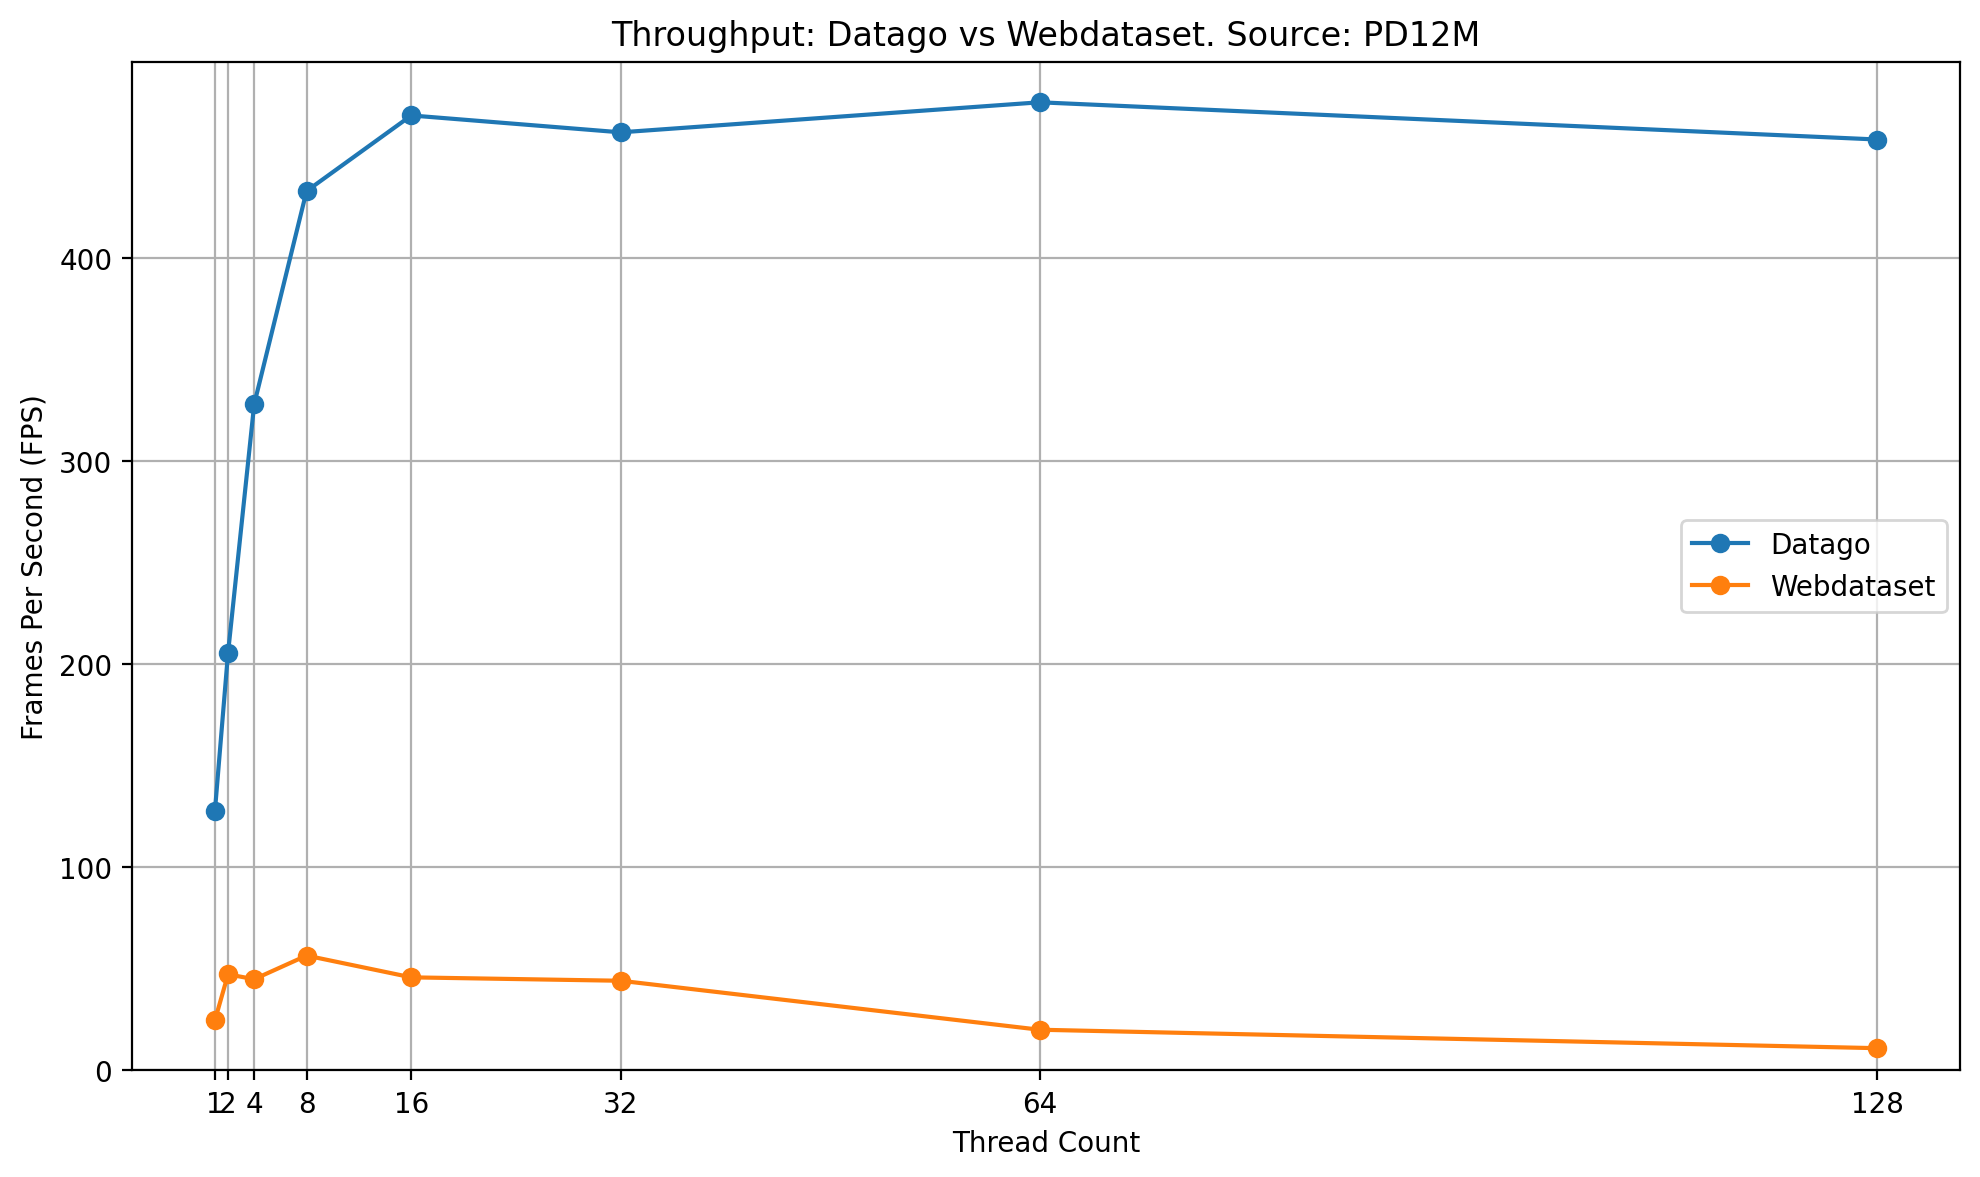
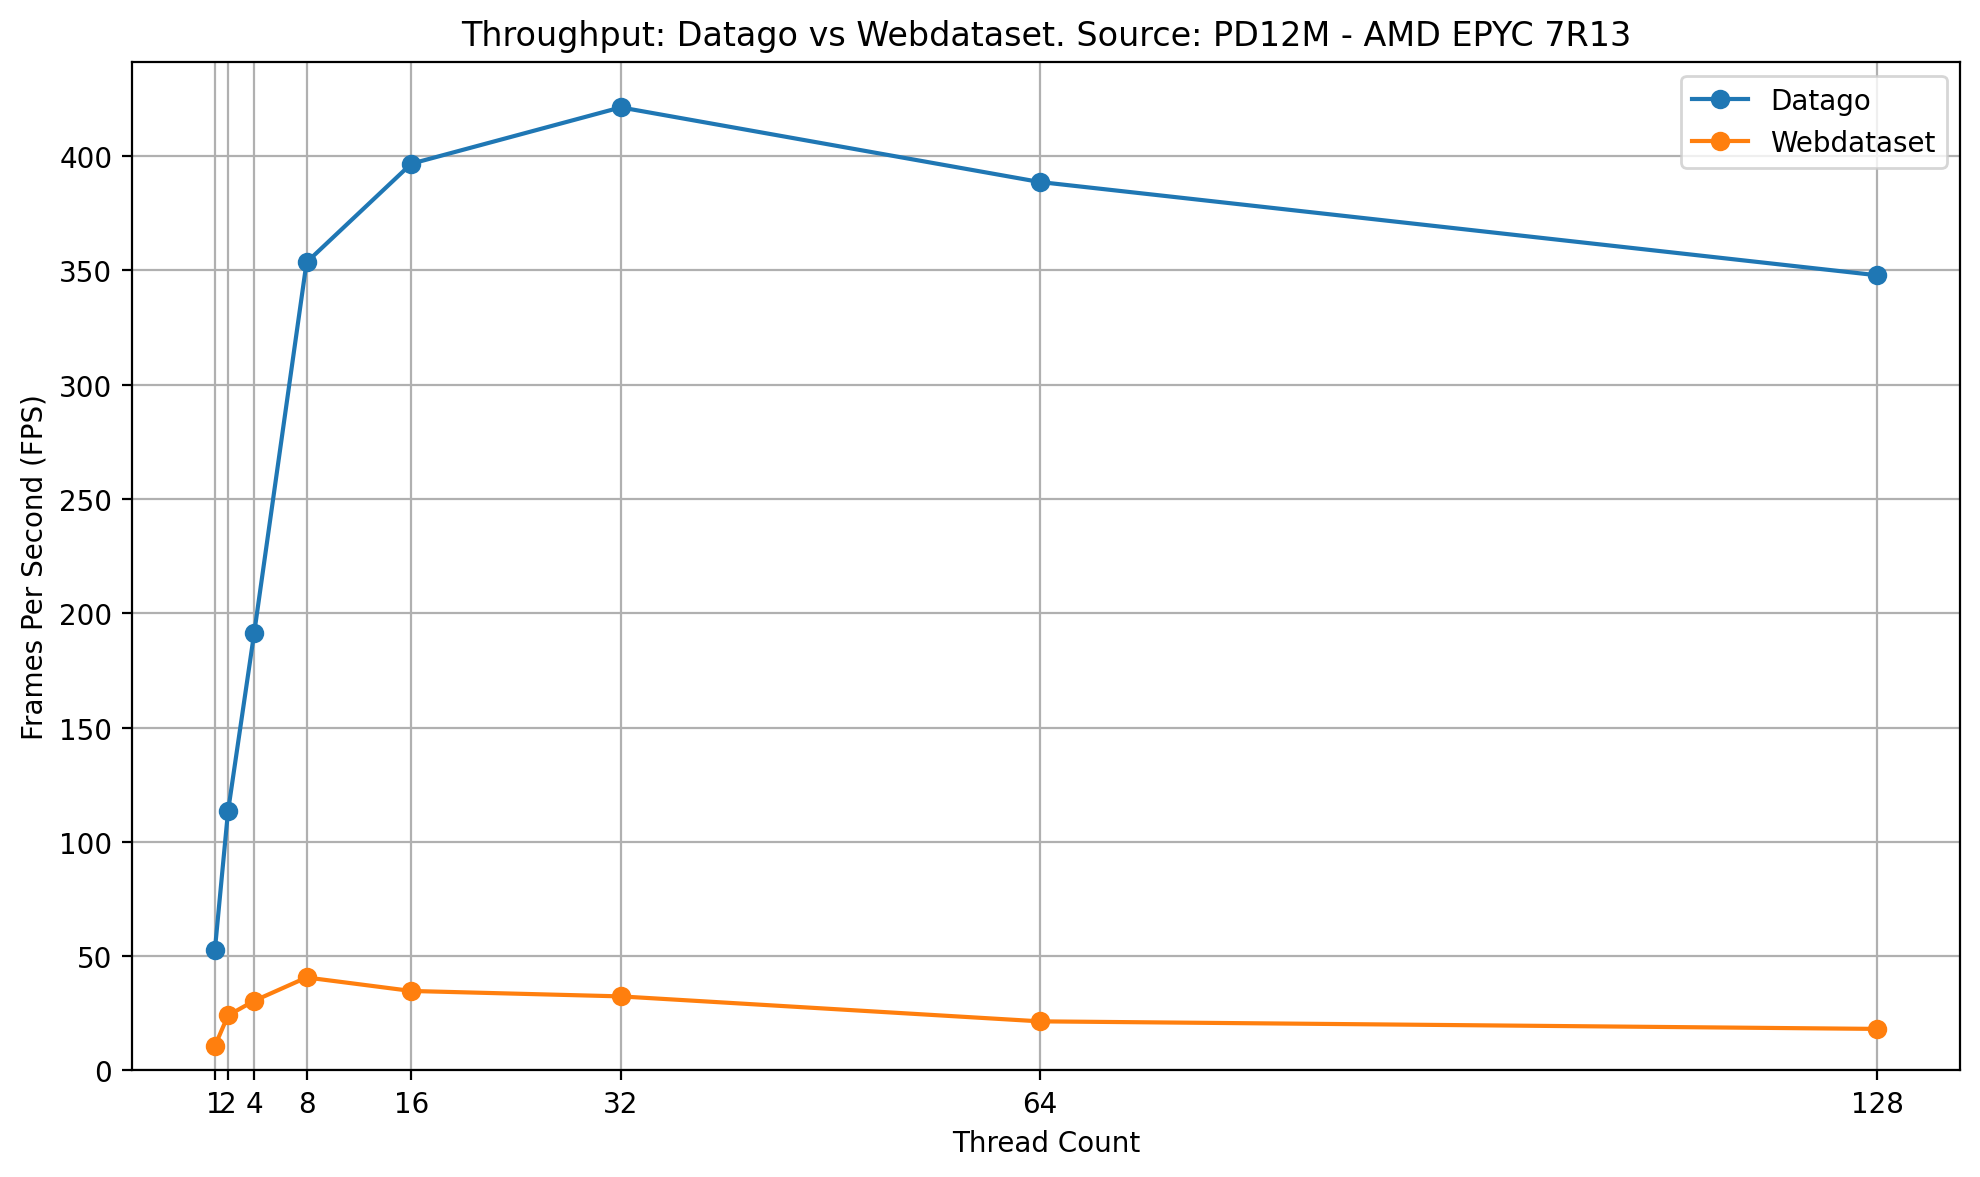
[nit] Refresh EPYC webdataset benchmark on an EPYC 7R13, forkserver-safe benchmark (#181)
* [nit] Refresh EPYC webdataset benchmark on an EPYC 7R13

Re-run the PD12M webdataset sweep (1-128 workers, 1000 images) on a 2x48-core
EPYC 7R13 and point the README EPYC references to it. Also fix the FakeIN plot
alt text, which named the EPYC but shows the Zen3 laptop run.

* [fix] Make the webdataset benchmark work with forkserver workers

Python 3.14 starts DataLoader workers with forkserver, which pickles the
collate_fn and dataset pipeline. Replace the lambda collate_fn and nested
resize closure with module-level functions so the Webdataset side runs
without forcing the fork start method.

---------

diff --git a/python/benchmark_webdataset.py b/python/benchmark_webdataset.py
@@ -1,12 +1,26 @@
 import json
 import os
 import time
+from functools import partial
 from typing import Any
 
 import typer
 from benchmark_defaults import IMAGE_CONFIG
 from dataset import DatagoIterDataset
 from tqdm import tqdm
+
+
+# DataLoader workers pickle these under Python 3.14's default forkserver start
+# method, so they must be importable module-level functions, not lambdas.
+def _passthrough(x):
+    return x
+
+
+def _resize_images(sample, resize):
+    for key in ("jpg", "png"):
+        if key in sample:
+            sample[key] = resize(sample[key])
+    return sample
 
 
 def benchmark(
@@ -168,43 +182,24 @@ def benchmark(
         from webdataset import WebDataset
 
         print("\nBenchmarking webdataset library dataloader")
-        # Define the transformations to apply to each image
-        transform = (
-            transforms.Compose(
-                [
-                    transforms.Resize(
-                        (1024, 1024), interpolation=transforms.InterpolationMode.LANCZOS
-                    ),
-                ]
-            )
-            if crop_and_resize
-            else lambda x: x
-        )
-        if transform:
-
-            def custom_transform(sample):
-                if "jpg" in sample:
-                    sample["jpg"] = transform(sample["jpg"])
-                if "png" in sample:
-                    sample["png"] = transform(sample["png"])
-                return sample
-        else:
-            custom_transform = lambda x: x  # noqa: E731
         # Create a WebDataset instance
         dataset = (
             WebDataset(url, shardshuffle=False)
             .shuffle(256)  # Optional: shuffle with buffer
             .decode("pil")  # Decode images using PIL
-            .map(custom_transform)
-            # .to_tuple("png", "cls")  # Map keys to output tuple
         )
+        if crop_and_resize:
+            resize = transforms.Resize(
+                (1024, 1024), interpolation=transforms.InterpolationMode.LANCZOS
+            )
+            dataset = dataset.map(partial(_resize_images, resize=resize))
 
         dataloader: DataLoader = DataLoader(
             dataset,
             batch_size=1,
             num_workers=num_workers,
             prefetch_factor=8,  # Didn't sweep on that, but probably not super impactful
-            collate_fn=lambda x: x,
+            collate_fn=_passthrough,
         )
 
         # Iterate over the DataLoader

diff --git a/README.md b/README.md
@@ -545,7 +545,7 @@ This benchmark is using low resolution images. It's accessed through the webdata
 Of note is also that this can be bottlenecked by your external bandwidth to the remote storage where WDS is hosted, in which case both solution would yield comparable numbers.
 
 ### AMD Zen3 laptop - webdataset - no processing
-![AMD EPYC 9454](assets/zen3_wds_fakein.png)
+![AMD Zen3 laptop](assets/zen3_wds_fakein.png)
 
 
 ## Webdataset: PD12M
@@ -558,8 +558,8 @@ Of note is also that this can be bottlenecked by your external bandwidth to the 
 ![AMD Zen3 laptop](assets/zen3_wds_pd12m.png)
 
 
-### AMD EPYC 9454 - pd12m - webdataset - no processing
-![AMD EPYC 9454](assets/epyc_wds_pd12m.png)
+### AMD EPYC 7R13 (2x48 cores) - pd12m - webdataset - no processing
+![AMD EPYC 7R13](assets/epyc_wds_pd12m.png)
 
 
 ### AMD Zen3 laptop - webdataset - processing
